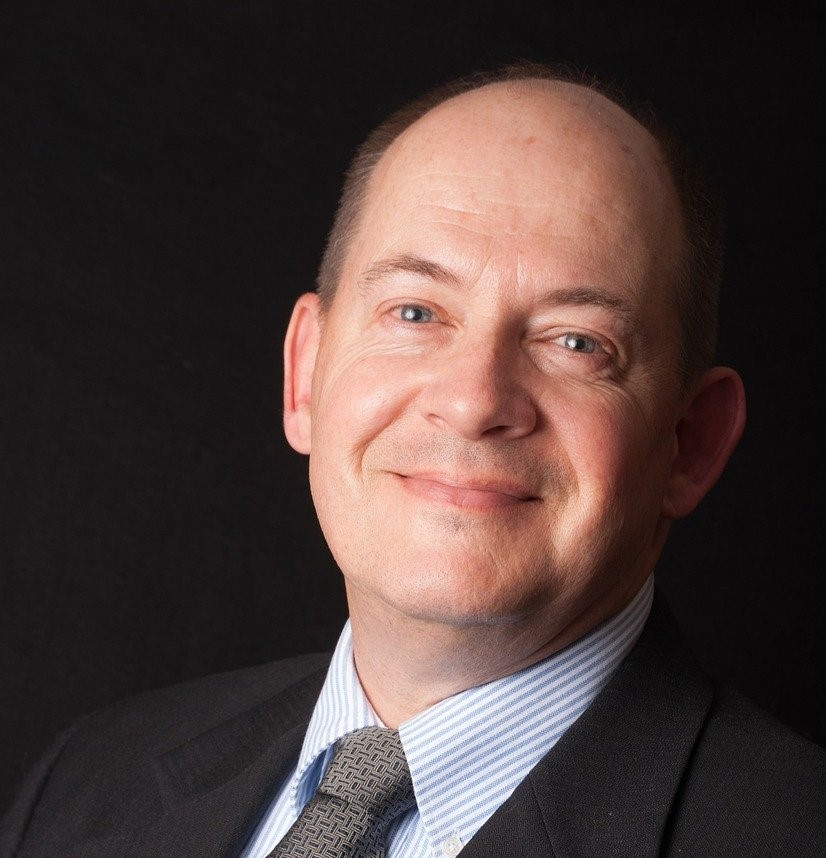
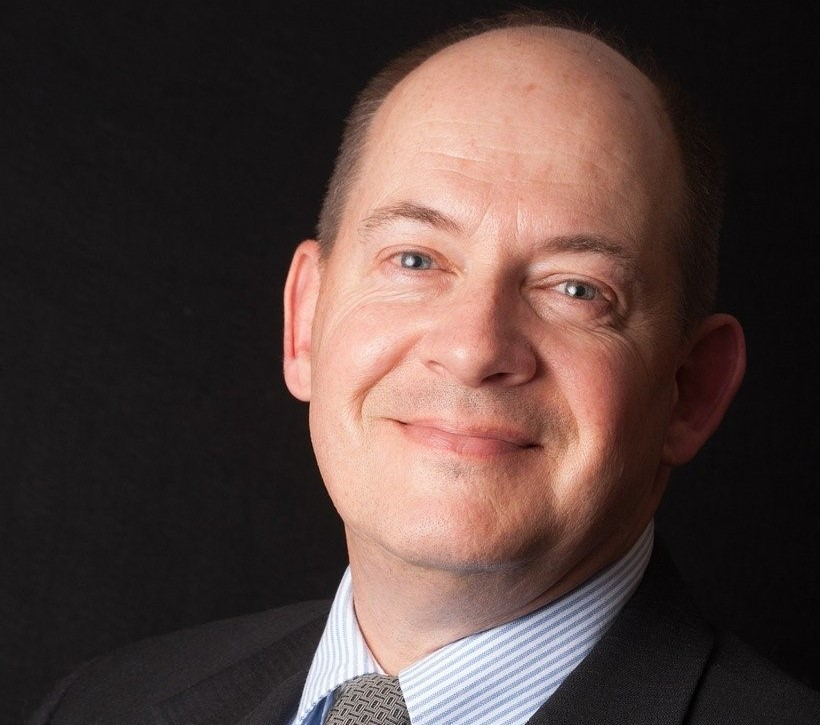
Edited the carousel cards' code to include images in HTML rather than CSS for team photos.

diff --git a/index.html b/index.html
@@ -132,7 +132,7 @@
           </div>
         </div>
       </div>
-      <!-- Ideas for cards carousel and code snippets insiration from https://mdbootstrap.com/snippets/jquery/alexpiffero-it/696600 -->
+      <!-- Ideas for cards carousel and code snippets inspiration from https://mdbootstrap.com/snippets/jquery/alexpiffero-it/696600 -->
       <!----------------------------- Desktop View Carousel ---------------------------->
       <div class="d-none d-lg-block container-carousel containter-fluid container content-container">
         <div id="carouseldesktopIndicators" class="carousel slide" data-ride="carousel">
@@ -153,7 +153,9 @@
                             <h2 class="text-center card-title">
                               Our Team
                             </h2>
-                            <div class="mark-photo img-thumbnail" aria-label="Mark Photo"></div>
+                            <div class="facility-photo">
+                              <img src="assets/images/businessman.jpg" alt="Mark O' Brien" class="img-thumbnail" />
+                            </div>
                             <div class="text-center card-title">
                               <h4>Mark O' Brien</h4>
                             </div>
@@ -172,7 +174,9 @@
                             <h2 class="text-center card-title">
                               Our Team
                             </h2>
-                            <div class="aoife-photo img-thumbnail" aria-label="Aoife Photo"></div>
+                            <div class="facility-photo">
+                              <img src="assets/images/businesswoman.jpg" alt="Aoife Sweeney" class="img-thumbnail" />
+                            </div>
                             <div class="text-center card-title">
                               <h4>Aoife Sweeney</h4>
                             </div>
@@ -281,7 +285,9 @@
                             <h2 class="text-center card-title">
                               Our Team
                             </h2>
-                            <div class="mark-photo img-thumbnail" aria-label="Mark Photo"></div>
+                            <div class="facility-photo">
+                              <img src="assets/images/businessman.jpg" alt="Mark O' Brien" class="img-thumbnail" />
+                            </div>
                             <div class="text-center card-title">
                               <h3>Mark O' Brien</h3>
                             </div>
@@ -309,7 +315,9 @@
                             <h2 class="text-center card-title">
                               Our Team
                             </h2>
-                            <div class="aoife-photo img-thumbnail" aria-label="Aoife Photo"></div>
+                            <div class="facility-photo">
+                              <img src="assets/images/businesswoman.jpg" alt="Aoife Sweeney" class="img-thumbnail" />
+                            </div>
                             <div class="text-center card-title">
                               <h3>Aoife Sweeney</h3>
                             </div>

diff --git a/assets/css/style.css b/assets/css/style.css
@@ -154,33 +154,13 @@ height: 400px;
   background-color: rgba(87, 202, 255, 1);
 }
 
-.mark-photo {
-  background: url(../images/businessman.jpg)no-repeat center center;
-  background-size: cover;
-  height: 200px;
-  width: 200px;
-  display: -webkit-box;
-  display: -ms-flexbox;
-  display: flex;
-  margin: auto;
-}
-
-.aoife-photo {
-  background: url(../images/businesswoman.jpg)no-repeat center center;
-  background-size: cover;
-  height: 200px;
-  width: 200px;
-  display: -webkit-box;
-  display: -ms-flexbox;
-  display: flex;
-  margin: auto;
-}
-
 .facility-photo {
   height: 150px;
   width: 200px;
   display: block;
   margin: auto;
+  padding-bottom: 20px;
+  position: relative;
 }
 
 /* The below CSS controls the zoom effect of the hero image upon loading each page. */
@@ -306,6 +286,7 @@ There are two carousels on this page, one for larger screen sizes and one for sm
 .carousel-inner .card-title {
   padding-top: 10px;
   padding-bottom: 10px;
+  margin-top: 30px;
 }
 
 .carousel-inner .card-body {
